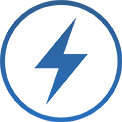
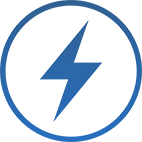
responsive issue fixed

diff --git a/html/Version02/css/style.css b/html/Version02/css/style.css
@@ -536,14 +536,6 @@ a:focus {
 	border-radius: 0 0 6px 6px;
 	padding-bottom: 5px;
 }
-/*.redactor-editor {
-	border: none;
-	margin: 0px;
-	padding: 15px 15px 0px;
-}
-.redactor-box {
-	margin-bottom: 0px;
-}*/
 /* editor start */
 /* assessment context end */
 /* add table content */
@@ -557,8 +549,8 @@ a:focus {
 	overflow: hidden;
 }
 .tabtable_menu {
-	margin: 40px auto 20px;
-	padding: 13px 0px 0px;
+	margin: 40px auto 10px;
+	padding: 20px 0px 0px;
 	list-style: none;
 	display: inline-block;
 	min-height:180px;
@@ -604,13 +596,21 @@ a:focus {
 	margin: 0;
 	padding: 0;
 }
-.tabtable_menu a:hover img, .tabtable_menu a:hover span, .tabtable_menu:focus span, .tabtable_menu li.active span, .tabtable_menu:focus img, .tabtable_menu li.active img {
+.tabtable_menu a:hover img, .tabtable_menu a:hover span, .tabtable_menu:focus span, .tabtable_menu:focus img  {
 	top:-10px;
+	z-index:9;
+}
+.tabtable_menu li.active img, .tabtable_menu li.active a:hover img, .tabtable_menu li.active a span, .tabtable_menu li.active a:hover span{
+	top:-20px;
 	z-index:9;
 }
 .tabtable_menu a:hover img, .tabtable_menu:focus img, .tabtable_menu li.active img{
 	width:122px;
-    height:122px;    
+    height:122px;
+}
+.tabtable_menu li.active img, .tabtable_menu li.active a:hover img{
+	width:142px;
+    height:142px;
 }
 .tabtable_menu a:hover img, .tabtable_menu a:hover span{
 	top:-10px;

diff --git a/html/Version02/css/responsive-style.css b/html/Version02/css/responsive-style.css
@@ -18,14 +18,24 @@
 		font-size: 22px;
 	}
 	.tabtable_menu img {
-		width: 80px;
+		width: 82px;
+		height: 82px;
+	}
+	.tabtable_menu a:hover img, .tabtable_menu:focus img, .tabtable_menu li.active img{
+		width: 102px;
+		height: 102px;
+	}
+	.tabtable_menu li.active img, .tabtable_menu li.active a:hover img{
+		width: 122px;
+		height: 122px;
 	}
 	.tabtable_menu li a::after {
 		left: 70%;
 		width: 60%;
+		top:38px;
 	}
 	.tabtable_menu {
-		margin-bottom: 20px;
+		margin-bottom: 10px;
 	}
 }
 @media only screen and (max-width : 767px) {
@@ -87,7 +97,28 @@
 }
 @media only screen and (max-width : 480px) {
 	.tabtable_menu img {
-		width: 80px;
+		width: 62px;
+		height: 62px;
+	}
+	.tabtable_menu a:hover img, .tabtable_menu:focus img, .tabtable_menu li.active img{
+		width: 82px;
+		height: 82px;
+	}
+	.tabtable_menu li.active img, .tabtable_menu li.active a:hover img{
+		width: 102px;
+		height: 102px;
+	}
+	.clb{
+		clear:both;
+	}
+	.tabtable_menu li.tab_last, .clb{
+		margin-top:10px;
+	}
+	.tabtable_menu{
+		min-height: 310px;
+	}
+	.tabtable_menu a span{
+		margin-bottom:0px;
 	}
 	.tabtable_menu a span {
 		margin-bottom: 20px;

diff --git a/html/Version02/index.html b/html/Version02/index.html
@@ -428,7 +428,7 @@
     <ul class="col-xs-12 nav-tabs tabtable_menu" role="tablist2">
       <li class="col-lg-3 col-md-3 col-sm-3 col-xs-3 tab_first active"><a href="#assets" role="tab" data-toggle="tab"><img alt="Asset" src="images/icon_asset.png"><span>Assets</span></a></li>
       <li class="col-lg-3 col-md-3 col-sm-3 col-xs-3"><a href="#threats" role="tab" data-toggle="tab"><img alt="Threat" src="images/icon_threat.png"><span>Threats</span></a></li>
-      <li class="col-lg-3 col-md-3 col-sm-3 col-xs-3"><a href="#vulnerability" role="tab" data-toggle="tab"><img  alt="Vulnerabilities" src="images/icon_vulnerabilities.png"><span>Vulnerabilities</span></a></li>
+      <li class="col-lg-3 col-md-3 col-sm-3 col-xs-3 clb"><a href="#vulnerability" role="tab" data-toggle="tab"><img  alt="Vulnerabilities" src="images/icon_vulnerabilities.png"><span>Vulnerabilities</span></a></li>
       <li class="col-lg-3 col-md-3 col-sm-3 col-xs-3 tab_last"><a href="#securityrisk" role="tab" data-toggle="tab"><img alt="Security Risk" src="images/icon_securityrisk.png"><span>Security Risk</a></span></li>
     </ul>
   </div>
